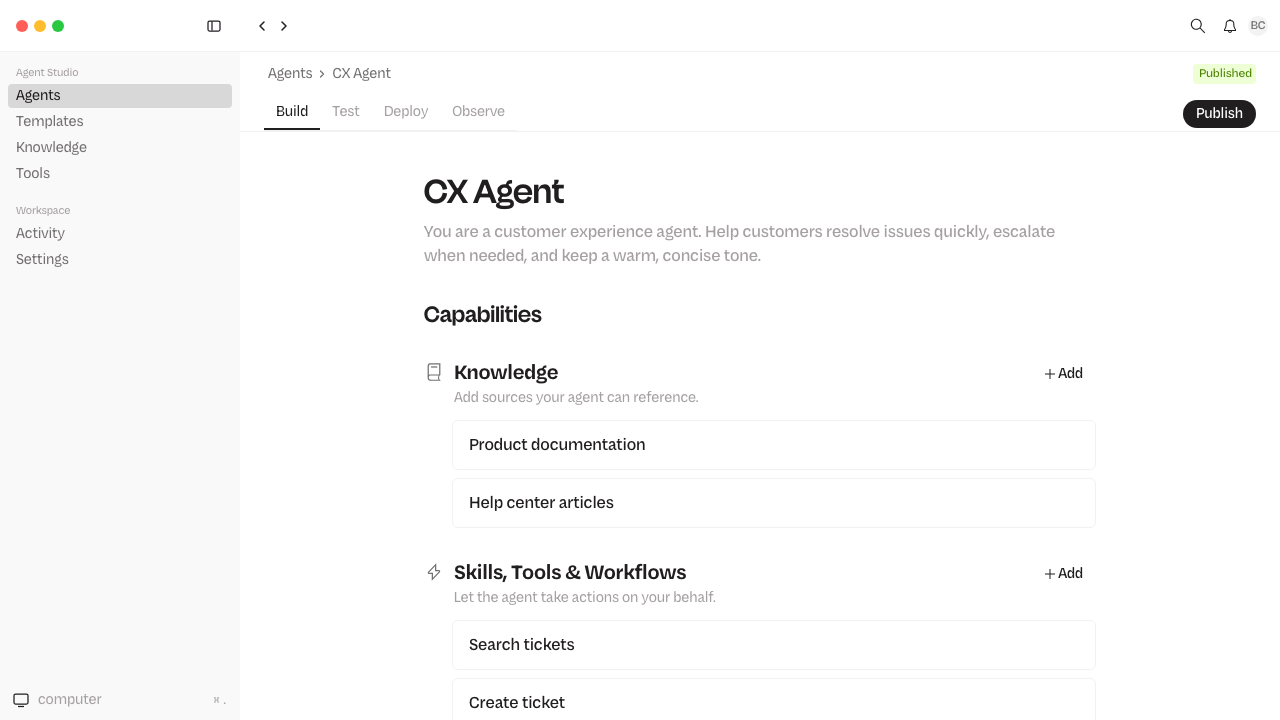
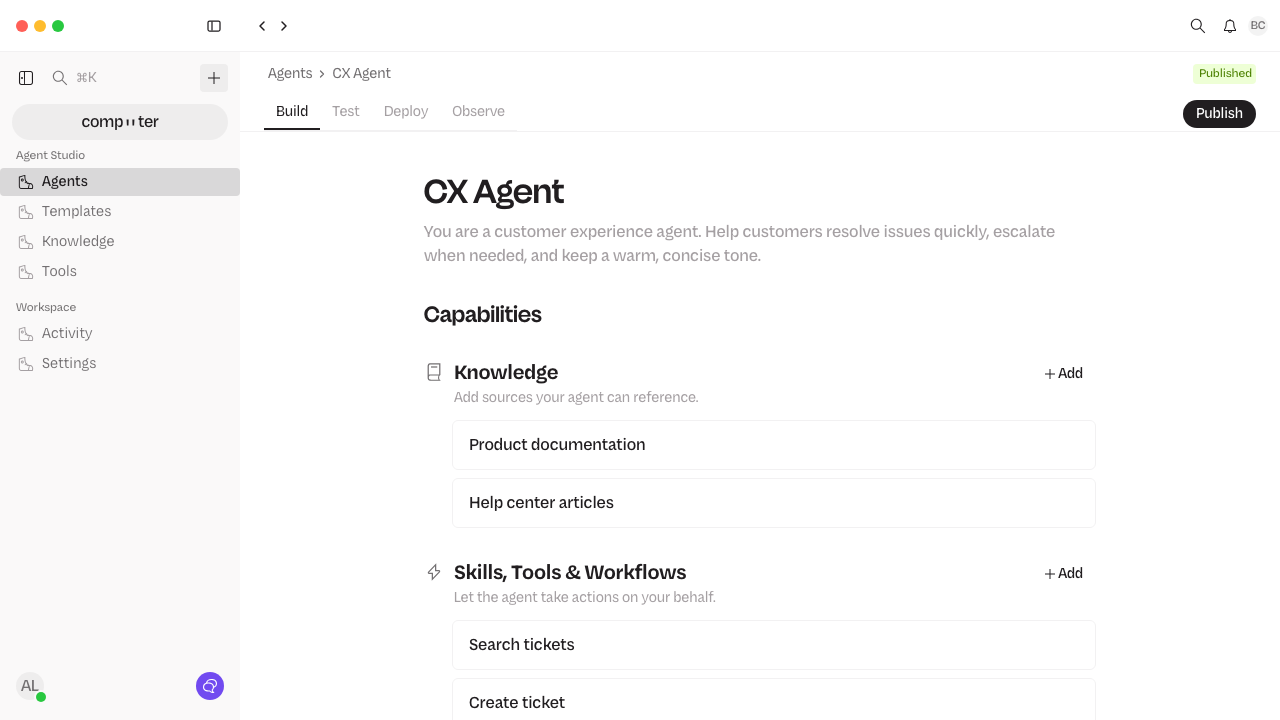
feat(studio/prototype-kit): ComputerPage container grid + layout constants + canvas drawer slot

diff --git a/studio/prototype-kit/templates/ComputerPage.tsx b/studio/prototype-kit/templates/ComputerPage.tsx
@@ -58,8 +58,21 @@
  * | Sidebar surface             | `--surface-shallow` (already applied via ComputerSidebar) |
  * | Window backdrop             | `--surface-backdrop`            |
  * | Divider / border            | `--stroke-neutral-subtle`       |
+ *
+ * The root is a `@container` element; descendants can query its width. The canvas panel auto-converts from a docked column to a fixed overlay drawer below 600px container width.
  */
 import type { ReactNode } from "react";
+
+export const COMPUTER_LAYOUT = {
+  RAIL_WIDTH: 64,
+  SIDENAV_EXPANDED: 256,
+  SIDENAV_OVERLAY: 360,
+  CANVAS_WIDTH: 320,
+  THRESHOLD_NO_CANVAS: 600,
+  THRESHOLD_WITH_CANVAS: 900,
+  CANVAS_DRAWER_BELOW: 600,
+  MAIN_MIN: 260,
+} as const;
 
 type ComputerPageProps = {
   sidebar: ReactNode;
@@ -76,15 +89,27 @@ export function ComputerPage({
   children,
   panel,
 }: ComputerPageProps) {
+  const hasPanel = panel != null;
   return (
-    <div className="flex h-screen w-full bg-(--surface-backdrop) overflow-hidden">
+    <div className="@container relative flex h-screen w-full bg-(--surface-backdrop) overflow-hidden">
       {sidebar}
       <div className="flex-1 min-w-0 flex flex-col h-full bg-(--surface-overlay)">
         {header}
         <div className="flex-1 min-h-0 overflow-y-auto">{children}</div>
         {chatInput}
       </div>
-      {panel}
+      {hasPanel ? (
+        <>
+          {/* Docked canvas at wide container widths; hidden below 600px. */}
+          <div className="shrink-0 @max-[600px]:hidden">{panel}</div>
+          {/* Below 600px the same panel becomes a fixed overlay drawer
+              (backdrop + right-pinned panel) escaping the overflow-hidden clip. */}
+          <div className="hidden @max-[600px]:block">
+            <div className="absolute inset-0 z-[110] bg-black/20" aria-hidden="true" />
+            <div className="absolute right-0 top-0 z-[120] h-full shadow-lg">{panel}</div>
+          </div>
+        </>
+      ) : null}
     </div>
   );
 }

diff --git a/studio/prototype-kit/KIT-MANIFEST.md b/studio/prototype-kit/KIT-MANIFEST.md
@@ -156,6 +156,8 @@ Canvas tokens most likely to be referenced inside the body slot:
 | Window backdrop             | `--surface-backdrop`            |
 | Divider / border            | `--stroke-neutral-subtle`       |
 
+The root is a `@container` element; descendants can query its width. The canvas panel auto-converts from a docked column to a fixed overlay drawer below 600px container width.
+
 ## SettingsPage (template)
 _source: `templates/SettingsPage.tsx`_
 
@@ -189,10 +191,7 @@ Intentional opinions:
   PageBody.
 
 Slots:
-- `sidebar` — pass a bare `<NavSidebar />`. It renders the full standard
-  DevRev nav (Work / Teams / Views + Explore) by itself. Do NOT author
-  Section/Item children or pass `workspace` — that reproduces the design
-  less accurately. Only add children for a genuinely non-standard item set.
+- `sidebar` — typically <NavSidebar workspace="DevRev">…</NavSidebar>.
 - `breadcrumb` — typically <Breadcrumb.Root>…</Breadcrumb.Root>.
 - `actions` (optional) — top-right cluster (IconButtons + Avatar).
 - `pageActions` (optional) — cluster on the BreadcrumbBar (e.g. a "More"
@@ -247,10 +246,7 @@ Intentional opinions:
   render one implicitly.
 
 Slots:
-- `sidebar` — pass a bare `<NavSidebar />`. It renders the full standard
-  DevRev nav (Work / Teams / Views + Explore) by itself. Do NOT author
-  Section/Item children or pass `workspace` — that reproduces the design
-  less accurately. Only add children for a genuinely non-standard item set.
+- `sidebar` — typically <NavSidebar workspace="DevRev">…</NavSidebar>.
 - `title` — VistaHeader title slot.
 - `count` (optional) — VistaHeader count slot.
 - `actions` (optional) — VistaHeader right-cluster icon buttons.